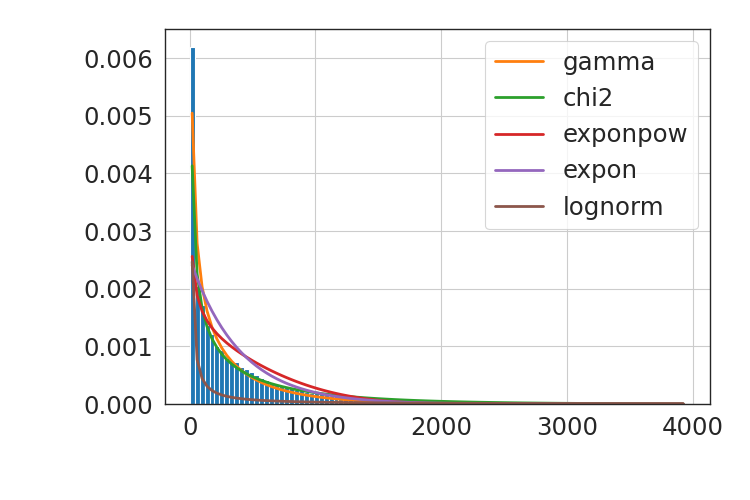
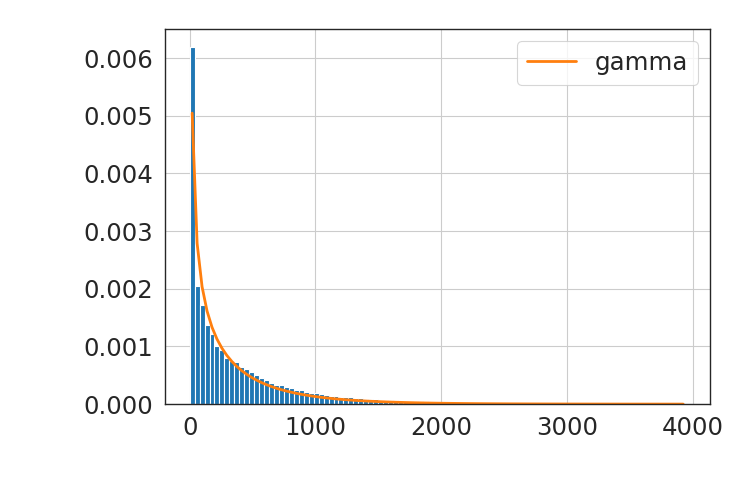
added pdf.png for new delhi

diff --git a/data/new-delhi/best-fit.py b/data/new-delhi/best-fit.py
@@ -1,5 +1,6 @@
 import numpy as np
 import pandas as pd
+import pickle
 import matplotlib.pyplot as plt
 
 # used for plotting random distributions (uses matplotlib underneath)
@@ -16,25 +17,30 @@ dataset = pd.read_csv(filename)
 print("loaded data.csv")
 
 # paramter file
-par_file = open("parameter.txt", "w")
+par_file = "parameter.pkl"
 
+# setting up the plot
 sns.set_style('white')
 sns.set_context('paper', font_scale=2)
 
-sns.displot(data=dataset, x="disposition_days", kind="hist", bins=250, aspect=1.5)
+# plotting the histogram
+sns.displot(data=dataset, x="disposition_days", kind="hist", bins=500, aspect=1.5)
 
+# finding the best fit curve
 disposition_days = dataset["disposition_days"].values
-
 good_distributations = ['betaprime', 'invgamma'] + get_common_distributions()
 
 f = Fitter(disposition_days, timeout=120,
-           distributions=get_common_distributions())
-
-#['invgamma', 'betaprime', 'gamma', 'chi2']
-#['gamma', 'lognorm', 'beta', 'burr', 'norm']
+           distributions=['gamma'])
 
 f.fit()
 print(f.summary())
-print(f.get_best(method='sumsquare_error'))
+parameter_dict = f.get_best(method='sumsquare_error')
 
+# writing the paramters to a file
+with open(par_file, 'wb') as f:
+    pickle.dump(parameter_dict, f)
+
+print(parameter_dict)
+print(f"saved parameters of best fit curve to {par_file}")
 plt.savefig("test.png")

diff --git a/data/new-delhi/pdf.py b/data/new-delhi/pdf.py
@@ -1,0 +1,52 @@
+import numpy as np
+from scipy.stats import gamma
+from scipy.stats import expon
+from scipy.stats import invgamma
+import matplotlib.pyplot as plt
+import pandas as pd
+import pickle
+
+fig, ax = plt.subplots()
+
+state_code = 26 # state code for Delhi
+
+filepath = f"days_{state_code}.csv"
+
+# parameters file
+par_file = "parameter.pkl"
+
+save_filepath = "pdf.png"
+
+# loading the dataset for histogram
+df = pd.read_csv(filepath)
+print(f"loaded {filepath}")
+data = list(df["disposition_days"])
+
+# plotting the histogram
+ax.hist(data, bins=500, density=True, ec='black', lw=0.5)
+print("histogram prepared. Finding best fit curve now ...")
+
+# reading the parameter
+with open(par_file, "rb") as f:
+    par_dict = pickle.load(f)
+
+par_dict = par_dict['gamma']
+a = par_dict['a']
+loc = par_dict['loc']
+scale = par_dict['scale']
+
+x = np.linspace(gamma.ppf(0.01, a, loc, scale), gamma.ppf(0.99, a, loc, scale), 500)
+ax.plot(x, gamma.pdf(x, a, loc, scale), label='gamma pdf')
+
+print("Best fit curve prepared")
+ax.legend()
+
+ax.set_xlim(0, 500)
+
+ax.set_xlabel("disposition days")
+ax.set_ylabel("probability density")
+ax.set_title("Best Fit Probability Density Function for Disposition Days of Delhi Cases (2010-2018)")
+ax.grid(True)
+
+plt.show()
+plt.savefig(save_filepath)
